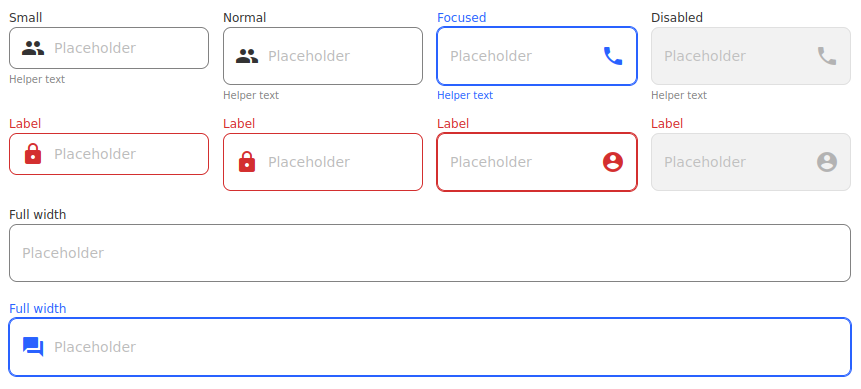
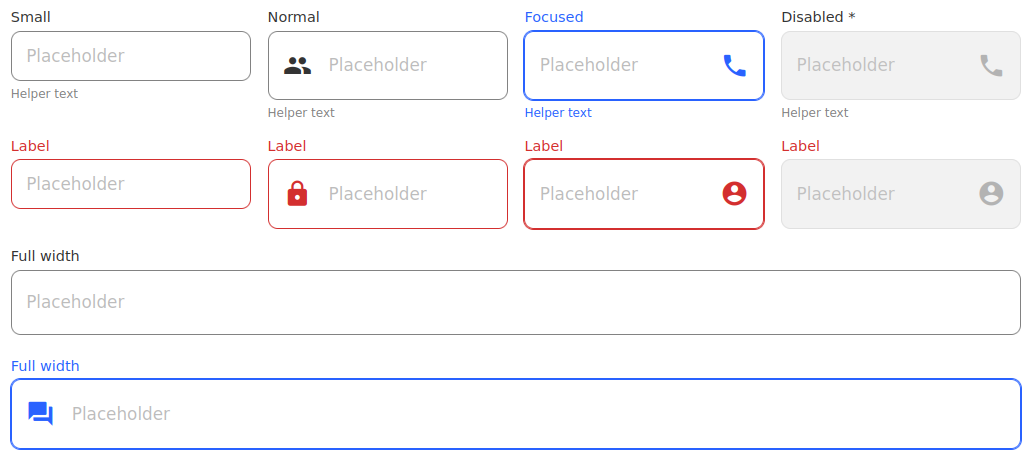
docs(input): update image example

diff --git a/packages/input/src/App.tsx b/packages/input/src/App.tsx
@@ -18,12 +18,7 @@ function App() {
     <>
       <button onClick={toggleTheme}>toggle theme</button>
       <div className="input-grid">
-        <Input
-          label="Small"
-          size="small"
-          helperText={helperText}
-          iconStart="people"
-        />
+        <Input label="Small" size="small" helperText={helperText} />
         <Input label="Normal" helperText={helperText} iconStart="people" />
         <Input
           label="Focused"
@@ -36,10 +31,11 @@ function App() {
           disabled
           helperText={helperText}
           iconEnd="phone"
+          required
         />
       </div>
       <div className="input-grid">
-        <Input size="small" iconStart="lock" error />
+        <Input size="small" error />
         <Input iconStart="lock" error />
         <Input iconEnd="account_circle" error {...focusedProps} />
         <Input iconEnd="account_circle" error disabled />

diff --git a/packages/input/src/App.css b/packages/input/src/App.css
@@ -12,14 +12,12 @@
   margin-block: 1rem;
 }
 
-.input-wrapper > .input--focused {
-  --input-border-color: var(--input-border-color-focus) !important;
+.input--focused {
   outline: 1px solid var(--input-border-color);
 }
 
-.input-label--focused {
-  --label-text: var(--label-text-focus, #2962ff) !important;
-}
-.input-label--focused > .input-helper {
-  color: inherit;
+.input-label--focused:not(.input-label--error) {
+  --label-text: #2962ff;
+  --input-border-color: #2962ff ;
+  --input-helper-text: #2962ff;
 }
